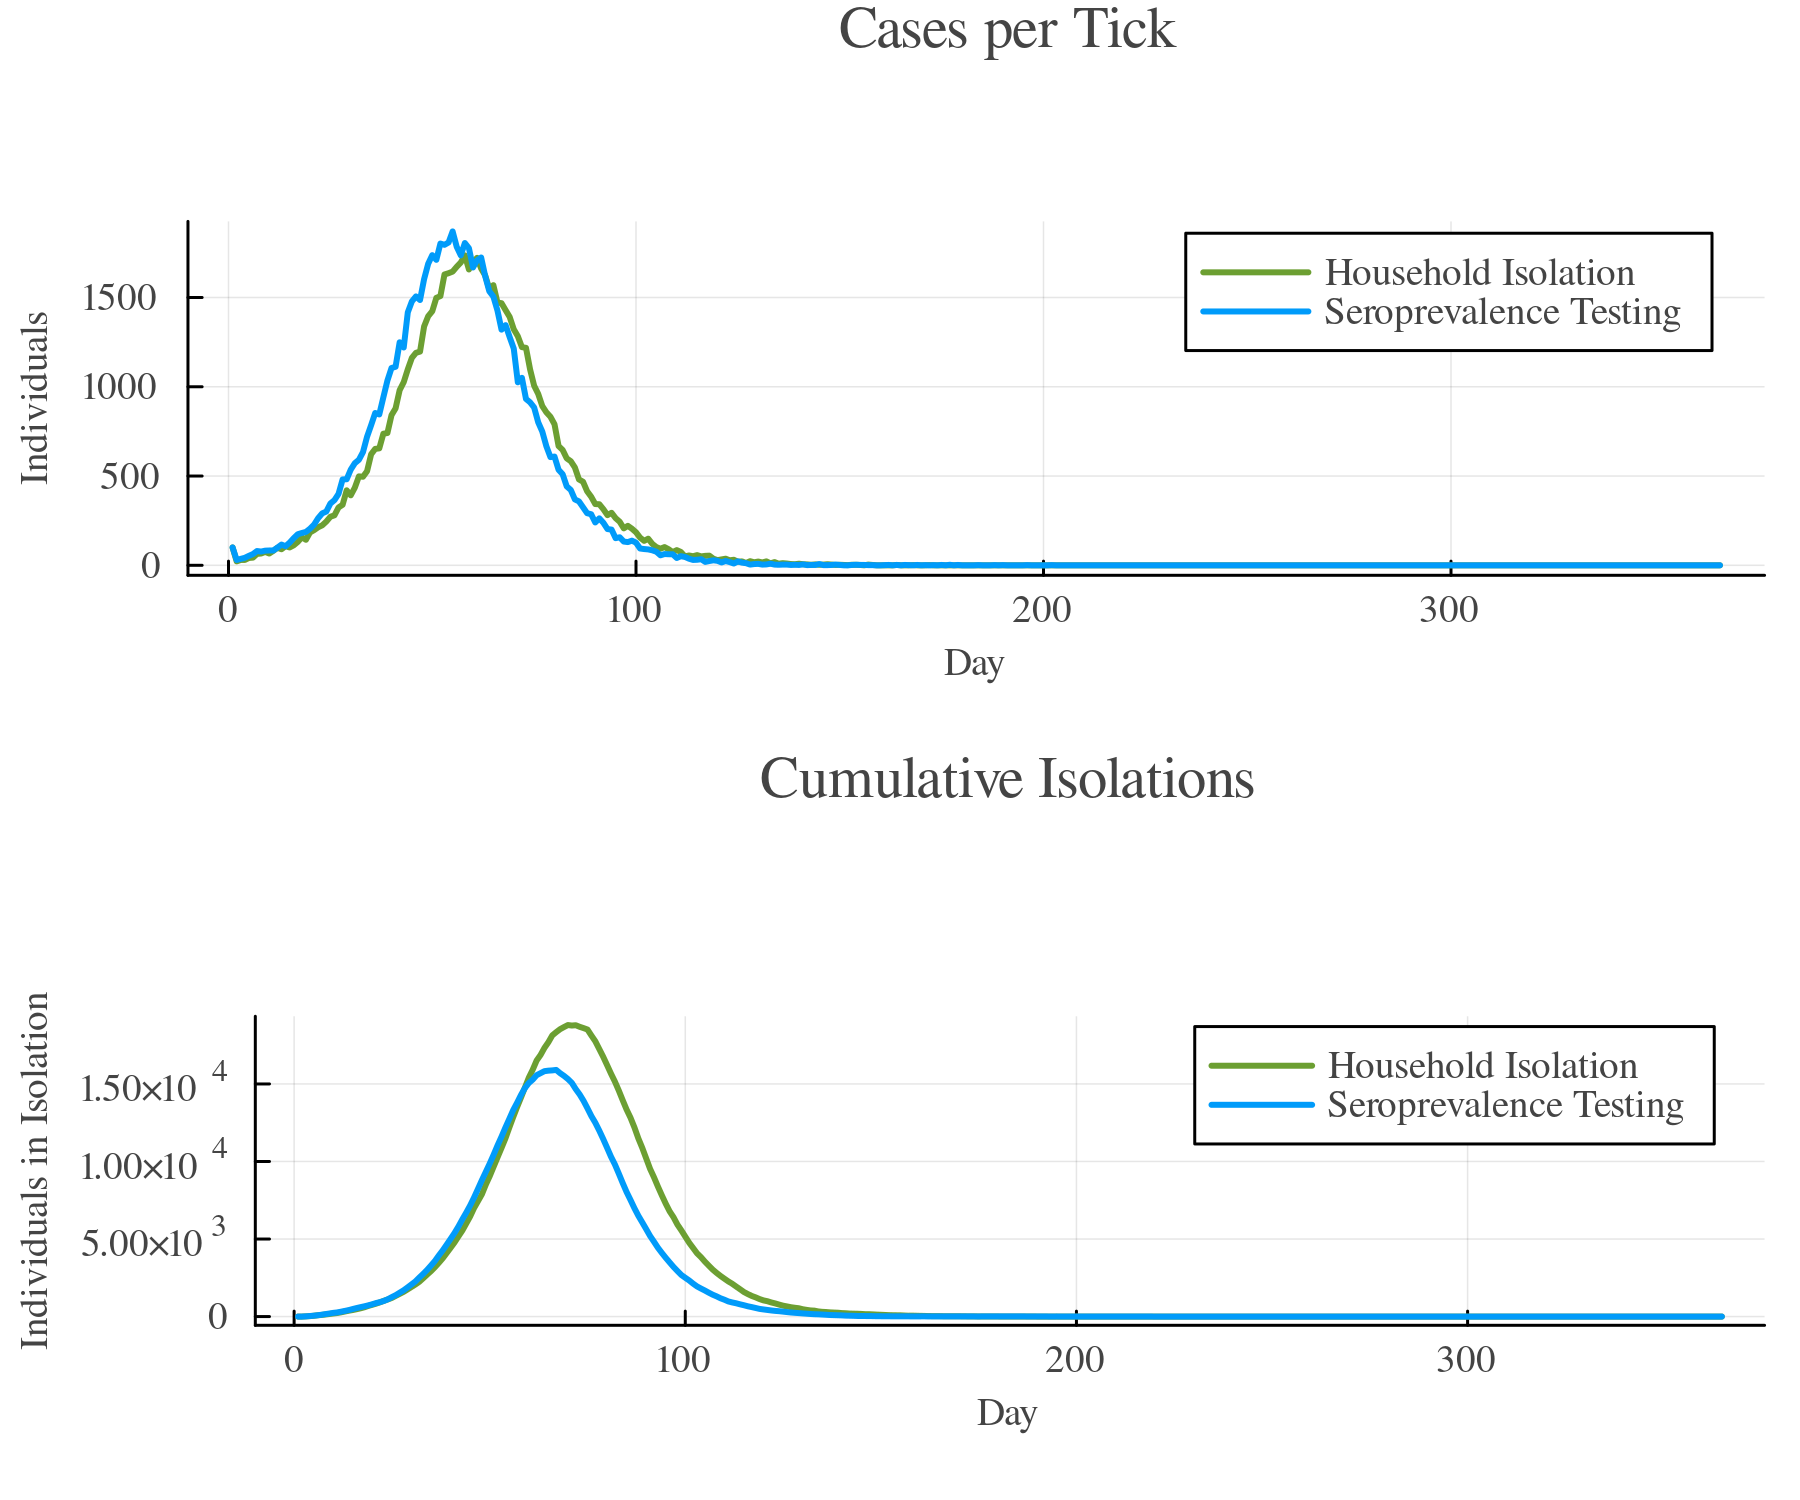
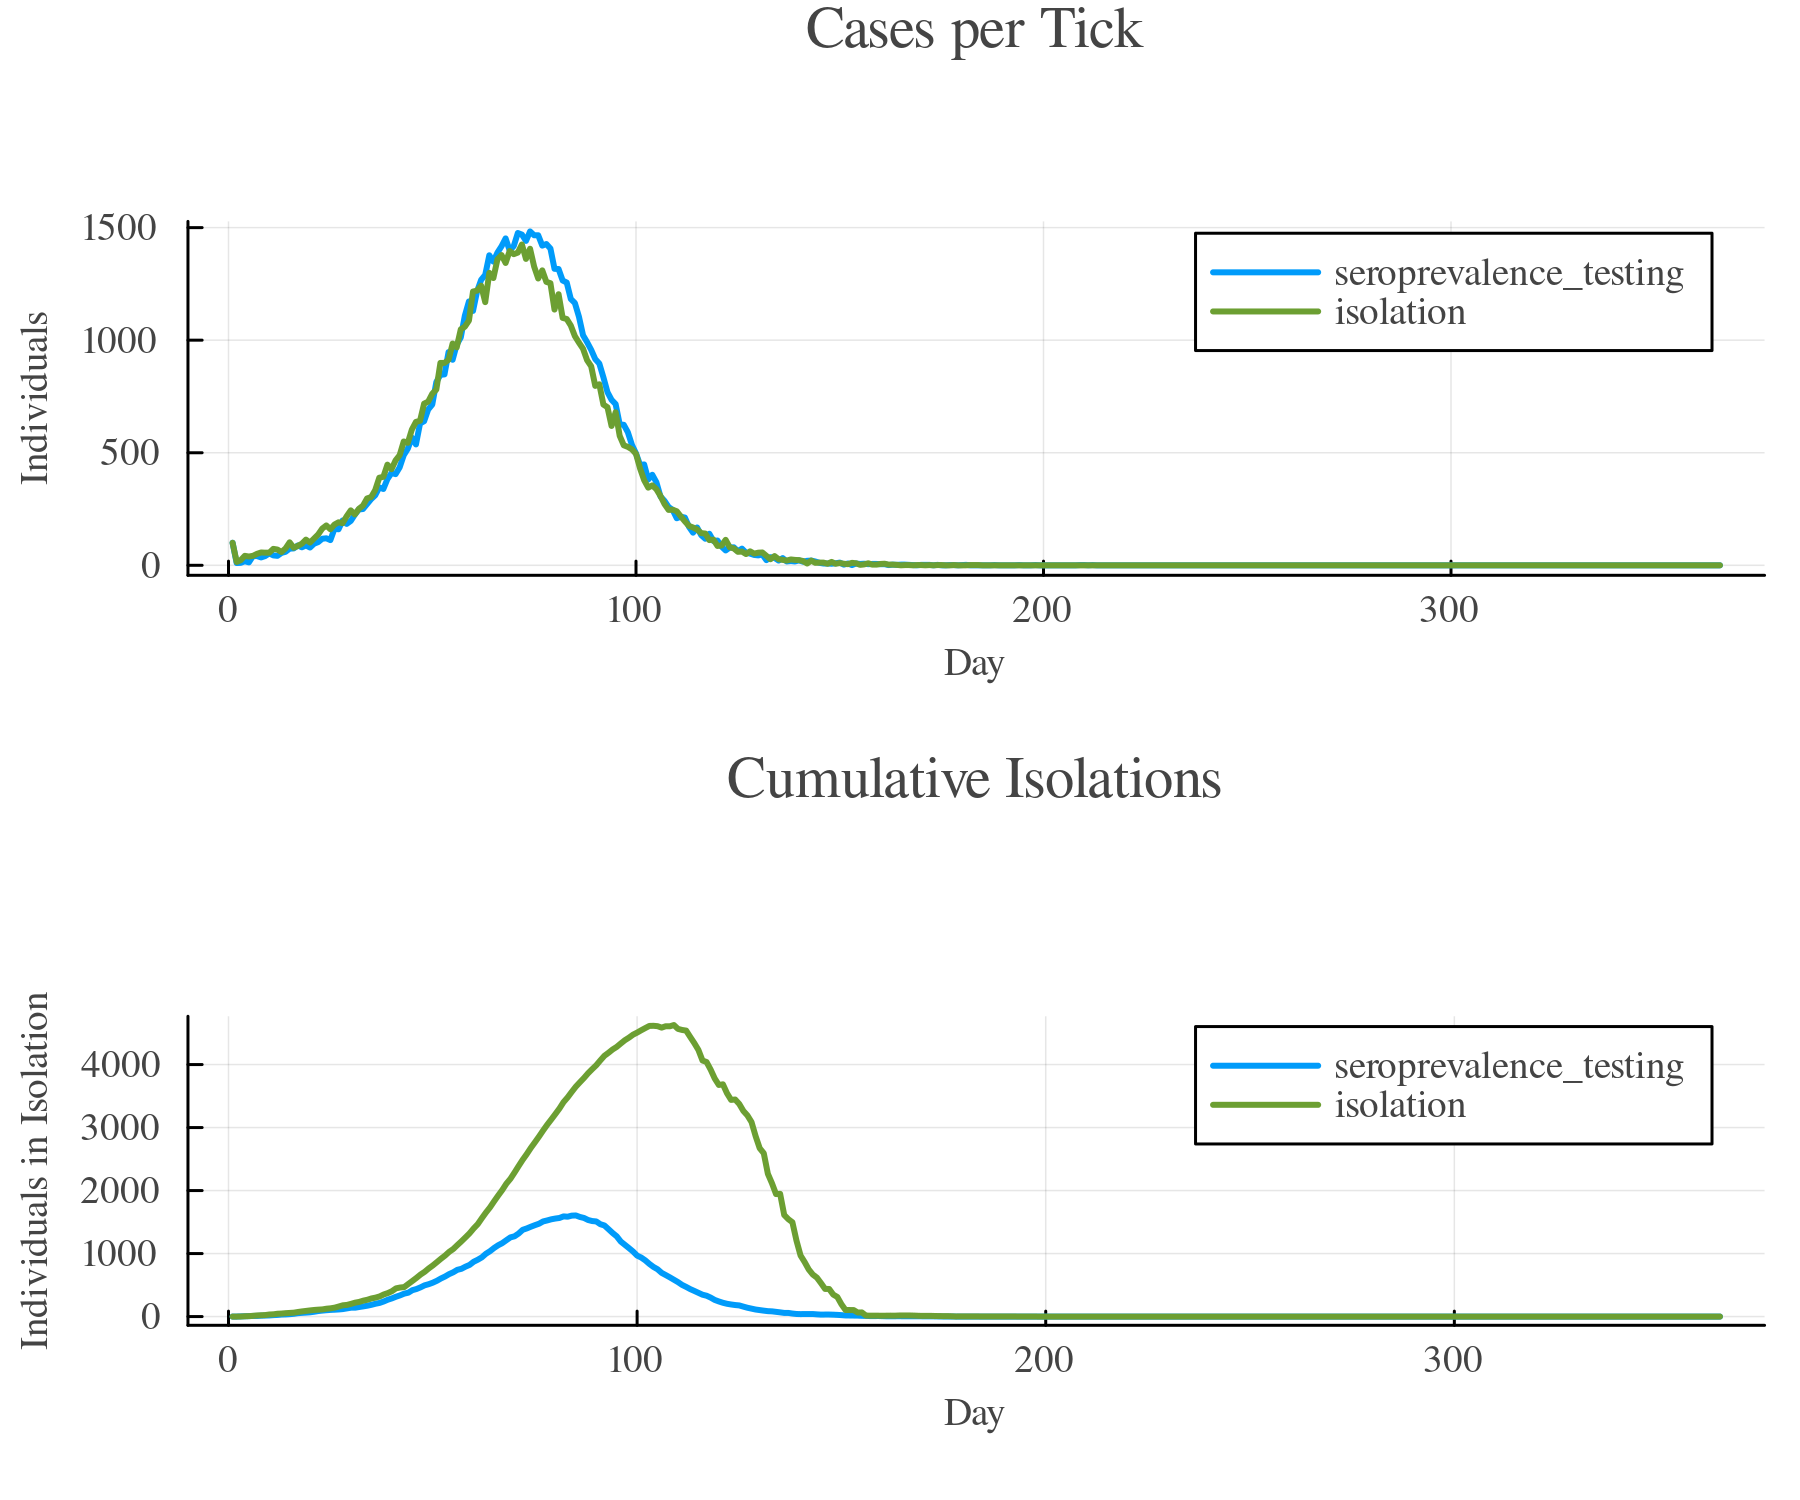
sero-testing schoolclass tutorial

diff --git a/docs/src/tut_npi.md b/docs/src/tut_npi.md
@@ -20,7 +20,7 @@ To do so, we set up an `IStrategy` called "self\_isolation" and add an instance 
 
 ```@raw html
 <p align="center">
-    <img src="assets/tutorials/tut_interventions_trism_self_isolation_with_symptoms.png" width="30%"/>
+    <img src="../assets/tutorials/tut_interventions_trism_self_isolation_with_symptoms.png" width="30%"/>
 </p>
 ``` 
 
@@ -76,7 +76,7 @@ In the example below, we pass the `is_student(individual)` function that returns
 
 ```@raw html
 <p align="center">
-    <img src="assets/tutorials/tut_interventions_trism_conditioned_measure_1.png" width="50%"/>
+    <img src="../assets/tutorials/tut_interventions_trism_conditioned_measure_1.png" width="50%"/>
 </p>
 ``` 
 
@@ -121,7 +121,7 @@ Here's an example where people who are older than 50 should be isolated.
 
 ```@raw html
 <p align="center">
-    <img src="assets/tutorials/tut_interventions_trism_conditioned_measure_2.png" width="50%"/>
+    <img src="../assets/tutorials/tut_interventions_trism_conditioned_measure_2.png" width="50%"/>
 </p>
 ``` 
 
@@ -172,7 +172,7 @@ In this is example, we only send people into self-isolation who are living in ho
 
 ```@raw html
 <p align="center">
-    <img src="assets\tutorials\tut_interventions_trism_conditioned_measure_3.png" width="50%"/>
+    <img src="../assets/tutorials/tut_interventions_trism_conditioned_measure_3.png" width="50%"/>
 </p>
 ``` 
 
@@ -228,7 +228,7 @@ This can also be considered a form of contact tracing.
 
 ```@raw html
 <p align="center">
-    <img src="assets/tutorials/tut_interventions_trism_household_isolation.png" width="60%"/>
+    <img src="../assets/tutorials/tut_interventions_trism_household_isolation.png" width="60%"/>
 </p>
 ``` 
 
@@ -332,7 +332,7 @@ A `SymptomTrigger` fires the "testing" strategy once an individual becomes sympt
 
 ```@raw html
 <p align="center">
-    <img src="assets/tutorials/tut_interventions_trism_testing_isolation.png" width="50%"/>
+    <img src="../assets/tutorials/tut_interventions_trism_testing_isolation.png" width="50%"/>
 </p>
 ``` 
 
@@ -401,7 +401,7 @@ In the following scenarios, we compare two scenarios: (1) where individuals get 
 
 ```@raw html
 <p align="center">
-    <img src="assets/tutorials/tut_interventions_trism_delayed_measure.png" width="80%"/>
+    <img src="../assets/tutorials/tut_interventions_trism_delayed_measure.png" width="80%"/>
 </p>
 ``` 
 
@@ -472,7 +472,7 @@ Once an individual experiences symptoms, all members of their household (includi
 
 ```@raw html
 <p align="center">
-    <img src="assets/tutorials/tut_interventions_trism_subpartest.png" width="50%"/>
+    <img src="../assets/tutorials/tut_interventions_trism_subpartest.png" width="50%"/>
 </p>
 ``` 
 
@@ -557,7 +557,7 @@ That's necessary enable the recursive execution of strategies (they have to be "
 
 ```@raw html
 <p align="center">
-    <img src="assets/tutorials/tut_interventions_trism_ghost_epidemic.png" width="100%"/>
+    <img src="../assets/tutorials/tut_interventions_trism_ghost_epidemic.png" width="100%"/>
 </p>
 ``` 
 
@@ -622,7 +622,7 @@ Moreover, the example uses the `Batch` functionality to easily aggregate all sim
 
 ```@raw html
 <p align="center">
-    <img src="assets/tutorials/tut_interventions_trism_varyingtestsensitivity.png" width="50%"/>
+    <img src="../assets/tutorials/tut_interventions_trism_varyingtestsensitivity.png" width="50%"/>
 </p>
 ``` 
 
@@ -686,7 +686,7 @@ However, in the second scenario, only 50 tests can be applied per day.
 
 ```@raw html
 <p align="center">
-    <img src="assets/tutorials/tut_interventions_trism_limited_capacity.png" width="50%"/>
+    <img src="../assets/tutorials/tut_interventions_trism_limited_capacity.png" width="50%"/>
 </p>
 ``` 
 
@@ -774,7 +774,7 @@ We furthermore add a `CustomLogger` to track the number of currently closed scho
 
 ```@raw html
 <p align="center">
-    <img src="assets/tutorials/tut_interventions_trism_pool_testing.png" width="50%"/>
+    <img src="../assets/tutorials/tut_interventions_trism_pool_testing.png" width="50%"/>
 </p>
 ``` 
 
@@ -840,7 +840,7 @@ We neglect the fact that this will cause some tests to be performed on day 11.
 
 ```@raw html
 <p align="center">
-    <img src="assets/tutorials/tut_interventions_trism_recurrent_testing.png" width="80%"/>
+    <img src="../assets/tutorials/tut_interventions_trism_recurrent_testing.png" width="80%"/>
 </p>
 ``` 
 
@@ -908,86 +908,105 @@ It is possible to specify that a test should not lead to a new case being report
 Please look up the [Test](@ref Test) measure's parameterization options.
 The next tutorial considers two test types where one of them does not lead to a reported case (self-applied test).
 
-## Seroprevalence Testing
+## Seroprevalence Testing in School Class Isolation
 
-In this tutorial, we demonstrate how to integrate **seroprevalence testing** into a household isolation strategy using GEMS.
+In this tutorial, we demonstrate how to integrate **seroprevalence testing** into a symptom-triggered isolation strategy for **school classes** using GEMS.
 
-This scenario builds on the idea of symptom-triggered household isolation, but adds a twist: 
-Household members only go into isolation if they test negative for antibodies. The assumption is that people who already have antibodies (i.e., tested seropositive) are less likely to be at risk and therefore exempt from isolation.
-In the standard simulation setup, seropositive individuals are assumed to be immune and cannot be reinfected, which justifies their exclusion from isolation measures.
-We are comparing the results with the previous household isolation scenario.
+This example builds on a similar idea used in the household isolation scenario but applies it to school classes. When a student develops symptoms, the rest of the class is isolated. However, we now use seroprevalence testing to avoid unnecessary isolations.
 
-**Scenario Summary**:
+Instead of automatically isolating all classmates, we test them for antibodies. Only students who **do not have antibodies** (i.e., test seronegative) are isolated. The assumption is that **seropositive individuals are immune** and therefore don't need to be isolated.
+
+We compare this targeted approach with a standard school class isolation strategy in which all classmates are isolated for 14 days whenever someone develops symptoms.
+
+---
+
+**Scenario Summary**
 
 ```@raw html
 <p align="center">
-    <img src="assets/tutorials/tut_interventions_trism_seroprevalence_testing.png" width="80%"/>
+    <img src="../assets/tutorials/tut_interventions_trism_seroprevalencetesting.png" />
 </p>
-```
+``` 
 
-- When an individual becomes symptomatic, they are immediately isolated for 14 days.
-- All **other members** of their household are given a **seroprevalence test**.
-- If a household member **tests negative (no antibodies)**, they are also isolated for 14 days.
-- If a household member **tests positive (has antibodies)**, they are **not isolated**.
-- The seroprevalence tests are "perfect", i.e. 100% sensitivity & specificity.
+- **Baseline: School Class Isolation**
+  - When a student shows symptoms, they and all classmates are isolated for 14 days.
+- **Seroprevalence Testing Scenario**
+  - When a student shows symptoms:
+    - They isolate for 14 days.
+    - All classmates are tested for antibodies.
+    - Only students who test **negative** are isolated.
+    - Students who test **positive** (i.e., immune) are **not isolated**.
+  - The tests are assumed to be perfect (100% sensitivity and specificity).
+
+---
+
 
 ```julia
 using GEMS
 
-# Create a simulation
-#We set the average household size to 4 to better observe its effect
-sim = Simulation(label = "Seroprevalence Testing", avg_household_size=4, transmission_rate = 0.4)
-
-# Define the seroprevalence test (defaults to 100% sensitivity and specificity)
-sero_test = SeroprevalenceTestType("Seroprevalence Test", pathogen(sim), sim)
-
-# Define a self-isolation strategy (used for both index case and seronegative contacts)
-isolation = IStrategy("Isolation", sim)
-add_measure!(isolation, SelfIsolation(14))
-
-# Define a testing strategy using the seroprevalence test
-# Household members are only isolated if they test NEGATIVE (no antibodies)
-testing = IStrategy("Seroprevalence Screening", sim)
-add_measure!(testing, Test("Sero Test", sero_test, negative_followup = isolation))
-
-# Define strategy to identify household members of the symptomatic individual
-trace_household = IStrategy("Household Tracing", sim)
-add_measure!(trace_household, FindSettingMembers(Household, testing, nonself = true))
-# The symptomatic individual isolates immediately
-add_measure!(trace_household, SelfIsolation(14))
-
-# Trigger the household tracing strategy when an individual develops symptoms
-trigger = SymptomTrigger(trace_household)
-add_symptom_trigger!(sim, trigger)
-
-# the household isolation scenario to compare the results with
-household_isolation = Simulation(label = "Household Isolation", avg_household_size=4, transmission_rate = 0.4)
-self_isolation = IStrategy("Self Isolation", household_isolation)
+# SCENARIO 1: simulation with 14-day isolation for all individuals in the schoolclass
+isolation = Simulation(label="isolation")
+self_isolation = IStrategy("Self Isolation", isolation)
 add_measure!(self_isolation, SelfIsolation(14))
-find_household_members = IStrategy("Find Household Members", household_isolation)
-add_measure!(find_household_members, FindSettingMembers(Household, self_isolation))
-trigger = SymptomTrigger(find_household_members)
-add_symptom_trigger!(household_isolation, trigger)
 
-# Run the simulations
-run!(sim)
-run!(household_isolation)
+# identify list of students in class
+find_class_members = IStrategy("Find Schoolclass Members", isolation)
+add_measure!(find_class_members, FindSettingMembers(SchoolClass, self_isolation), condition=is_student)
 
-rd_s = ResultData(sim)
-rd_i = ResultData(household_isolation)
+# trigger "schoolclass tracing"
+trigger = SymptomTrigger(find_class_members)
+add_symptom_trigger!(isolation, trigger)
+
+# SCENARIO 2: here all students get a test and only go into isolation if it is negative
+seroprevalence_testing = Simulation(label="seroprevalence_testing")
+
+# define the test type
+seroprevalence_test = SeroprevalenceTestType("Seroprevalence Test", pathogen(seroprevalence_testing), seroprevalence_testing)
+
+# isolation strategy
+self_isolation = IStrategy("Self Isolation", seroprevalence_testing)
+add_measure!(self_isolation, SelfIsolation(14))
+
+# define testing strategy that triggers self isolation
+testing = IStrategy("Testing", seroprevalence_testing)
+add_measure!(testing, GEMS.Test("Test", seroprevalence_test, negative_followup=self_isolation), condition = is_student)
+
+find_class_members = IStrategy("Find Class Members", seroprevalence_testing)
+add_measure!(find_class_members, FindSettingMembers(Household, testing, nonself=true), condition = is_student)
+
+# students with symptoms go in isolation anyway
+add_measure!(find_class_members, SelfIsolation(14), condition=is_student)
+
+# trigger "schoolclass tracing"
+trigger = SymptomTrigger(find_class_members)
+add_symptom_trigger!(seroprevalence_testing, trigger)
+
+# run both scenarios
+run!(isolation)
+run!(seroprevalence_testing)
+
+# get the results
+rd_i = ResultData(isolation)
+rd_s = ResultData(seroprevalence_testing)
 
 # Visualize the results
-p=gemsplot([rd_s, rd_i], type = (:TickCases, :CumulativeIsolations))
+gemsplot([rd_s, rd_i], type = (:TickCases, :CumulativeIsolations))
 ```
 
 **Plot**
 
 ```@raw html
 <p align="center">
-    <img src="../assets/tutorials/tut_interventions_seroprevalencetesting.png" width="80%"/>
+    <img src="../assets/tutorials/tut_interventions_seroprevalence_testing.png" width="80%"/>
 </p>
 ``` 
-The results show that both scenarios lead to a similar number of cases, but the seroprevalence testing scenario results in fewer people being isolated. This means we can reduce unnecessary isolations without increasing the spread of infection.
+
+**Results and Interpretation**
+
+Both scenarios result in similar numbers of cases, meaning the spread of infection is effectively controlled in both.  
+However, the seroprevalence testing scenario leads to significantly fewer isolations.
+This demonstrates that targeted testing can avoid unnecessary isolation for immune individuals without increasing transmission risk.
+
 
 ## Multiple Test Types
 
